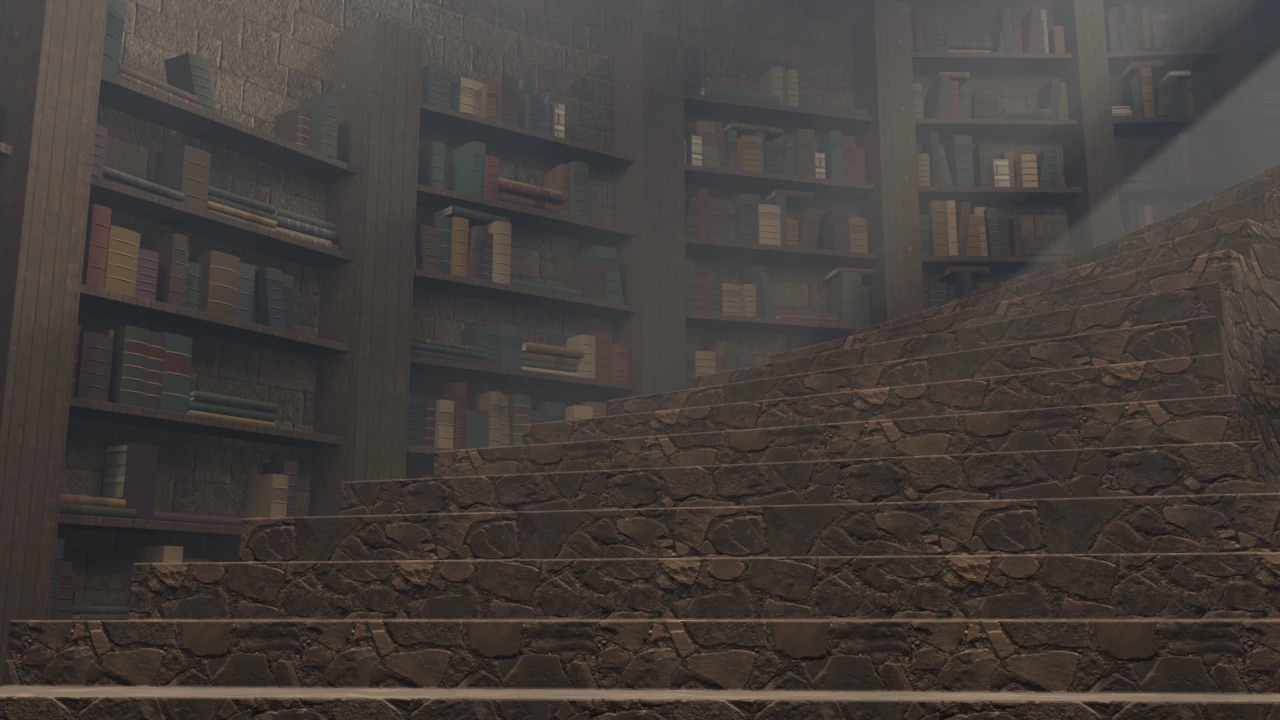
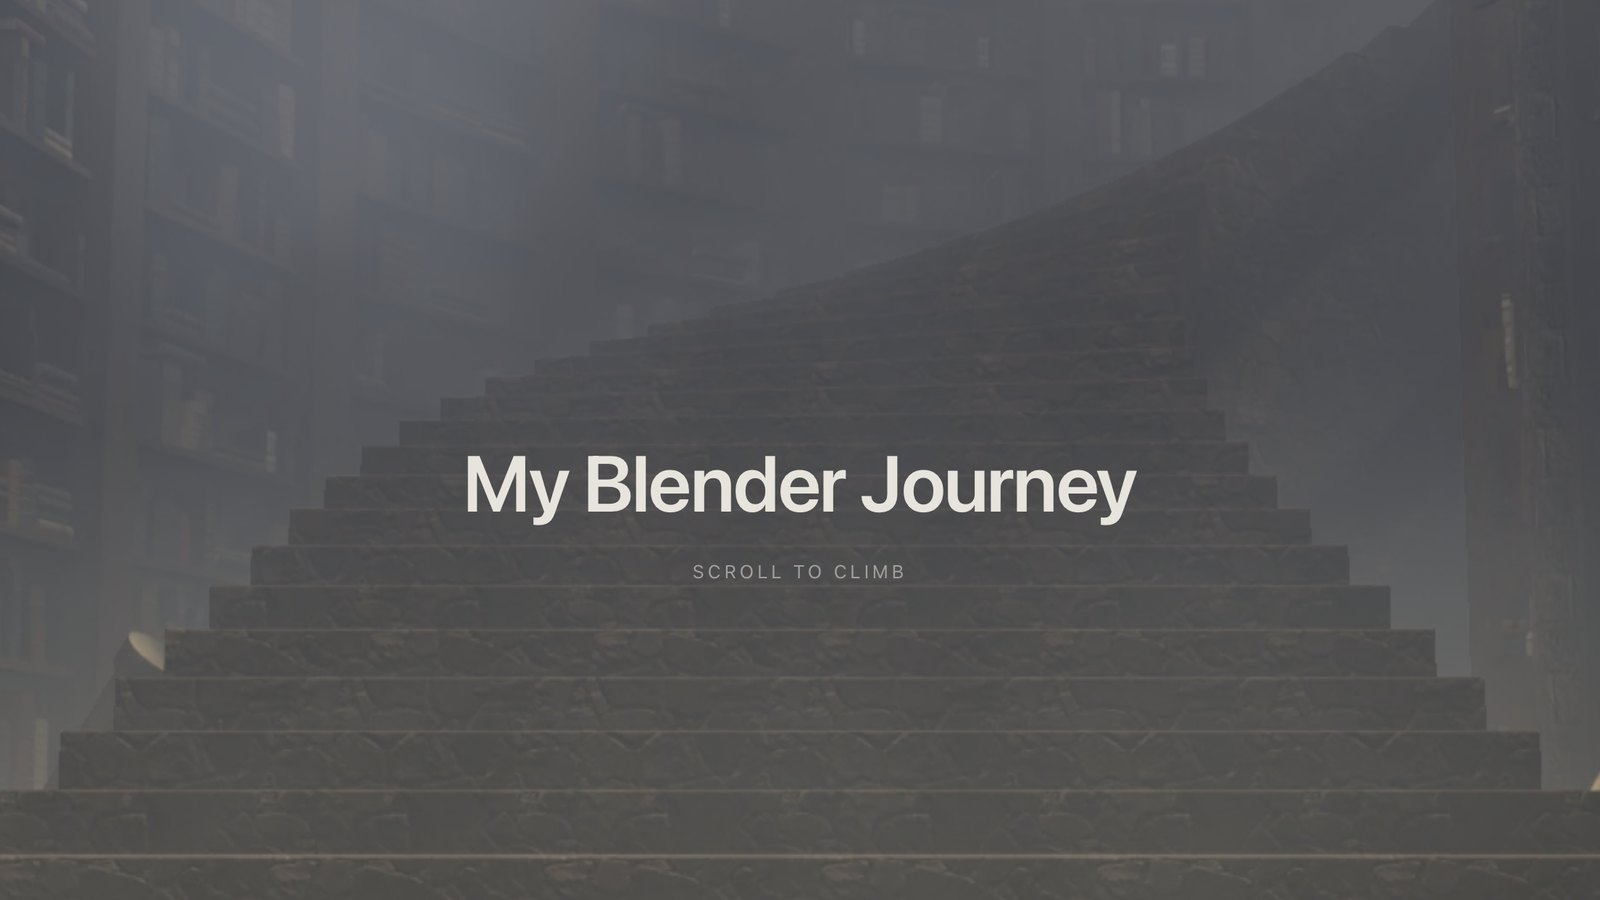
Playground: retitle, and use the climb's own title card as its tile
"Things I make when no one's watching" becomes "Things I make in my free
time". The meta description echoed the old line, so it moves with it.

The Blender tile now shows the opening frame with the title over it rather
than a bare mid-climb render. The screenshot is 2.44:1, so height is the
binding dimension for a 16:9 tile: all 1242 rows are kept and the middle
of the width is taken. The title is centred in the shot, so it stays
centred in the crop. Same file name, so the page's og:image picks it up too.

diff --git a/playground.html b/playground.html
@@ -4,7 +4,7 @@
   <meta charset="UTF-8" />
   <meta name="viewport" content="width=device-width, initial-scale=1.0" />
   <title>Playground — Roan Eriks</title>
-  <meta name="description" content="Things Roan makes when no one's watching." />
+  <meta name="description" content="Things Roan makes in his free time." />
 
   <link rel="stylesheet" href="/css/fonts.css" />
   <link rel="stylesheet" href="/css/tokens.css" />
@@ -22,7 +22,7 @@
 
   <main class="playground container">
     <header class="playground-header">
-      <h1 class="playground-header__title">Things I make when no one's watching</h1>
+      <h1 class="playground-header__title">Things I make in my free time</h1>
     </header>
 
     <div class="masonry">
@@ -30,7 +30,7 @@
       <article class="masonry__item">
         <a class="masonry__link" href="/playground/blender-journey.html">
           <div class="masonry__media masonry__media--film">
-            <img src="/img/blender-journey/thumb.jpg" alt="A rendered frame from the climb — stone steps rising past tall bookshelves in low fog" />
+            <img src="/img/blender-journey/thumb.jpg" alt="The opening frame of the climb — stone steps rising into fog, titled &quot;My Blender Journey&quot;" />
           </div>
           <h2 class="masonry__title">My Blender Journey</h2>
           <p class="masonry__note">From a lumpy donut to a thirty-two step staircase — a scene written as Python, rendered in Blender, and climbed by scrolling.</p>
